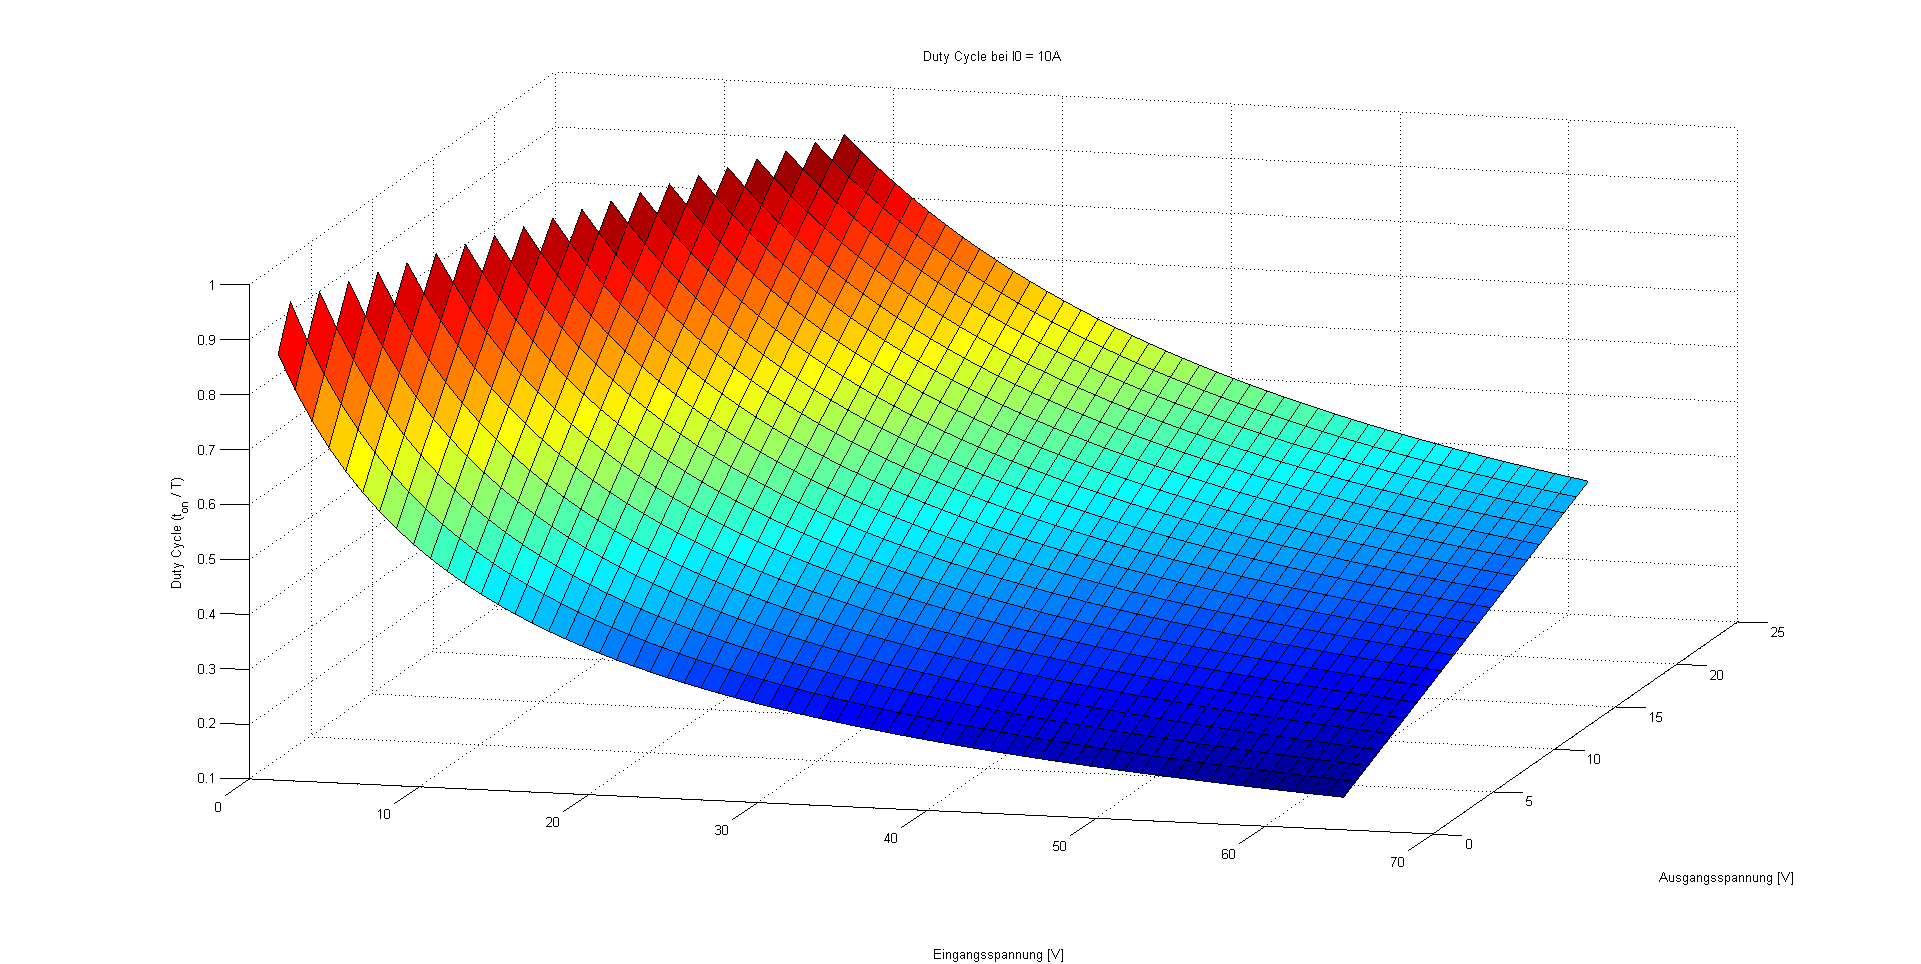
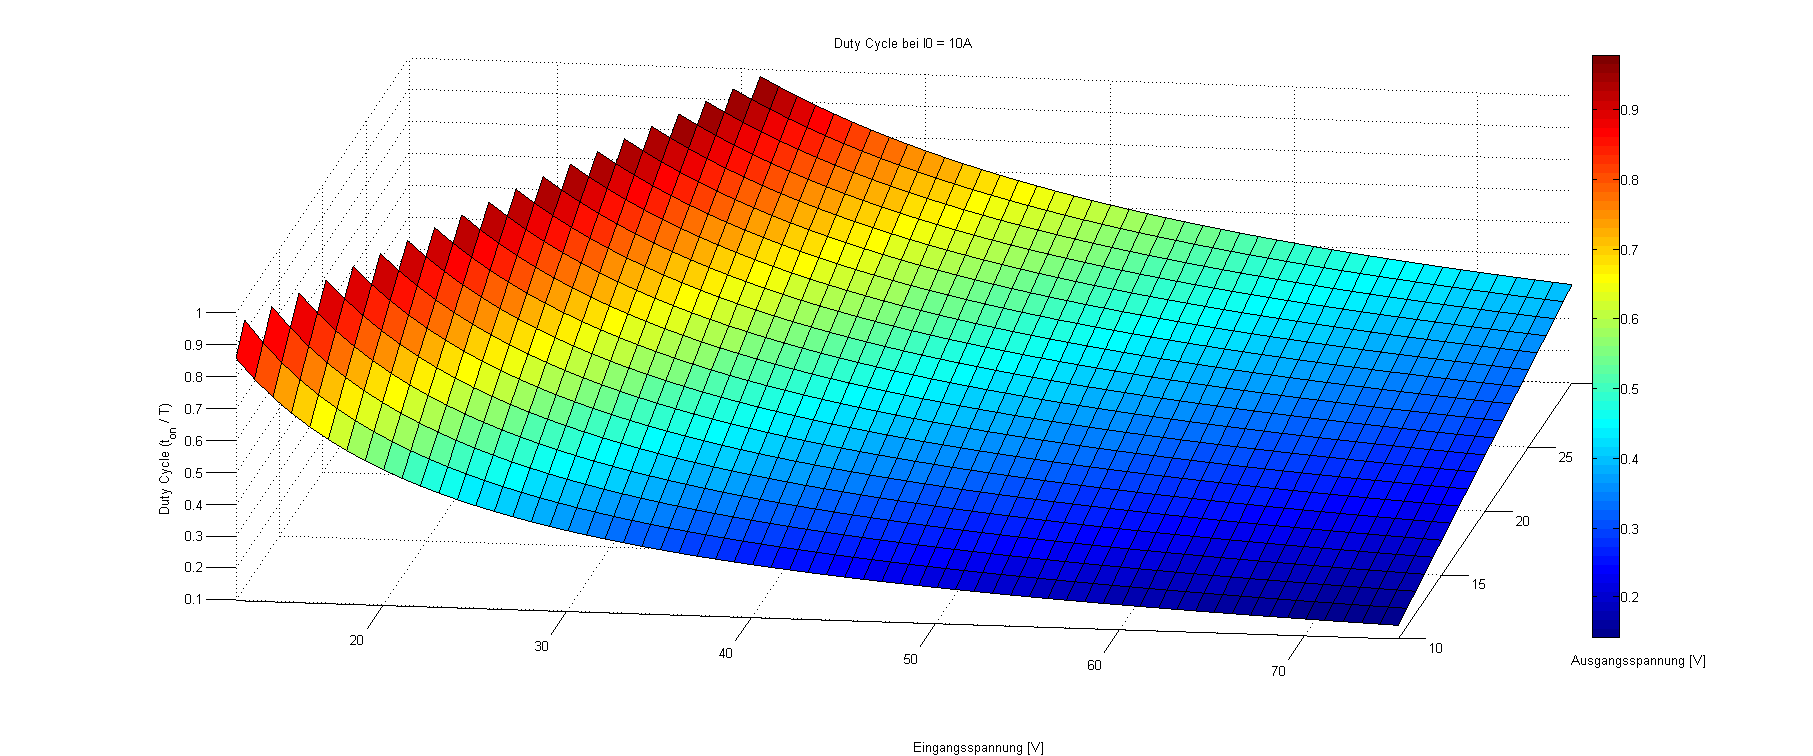
added offset correction for duty cycle and ripple plots

diff --git a/Leistungselektronik_Vezzini/BuckConverter.m b/Leistungselektronik_Vezzini/BuckConverter.m
@@ -126,8 +126,13 @@ display('Efficiency factor calculation completed.');
 display('Drawing and saving of graph plots in progress...'); 
 
 % D-Matrix anzeigen
+D_offset = zeros(max(V0), max(Vin), max(I0));
+D_offset(:,:,:) = NaN;
+D_offset(min(V0):max(V0), min(Vin):max(Vin), min(I0):max(I0)) = D;
 figure
-surf(D(:,:,10));
+surf(D_offset(:,:,10));
+colorbar;
+set(gca, 'xlim', [min(Vin) max(Vin)], 'ylim', [min(V0) max(V0)]);
 title(['Duty Cycle bei I0 = 10A']);
 ylabel('Ausgangsspannung [V]');
 xlabel('Eingangsspannung [V]');
@@ -135,7 +140,12 @@ zlabel('Duty Cycle (t_{on} / T)');
 
 % Rippel anzeigen
 figure
-surf(dI(:,:,10));
+dI_offset = zeros(max(V0), max(Vin), max(I0));
+dI_offset(:,:,:) = NaN;
+dI_offset(min(V0):max(V0), min(Vin):max(Vin), min(I0):max(I0)) = dI;
+surf(dI_offset(:,:,10));
+colorbar;
+set(gca, 'xlim', [min(Vin) max(Vin)], 'ylim', [min(V0) max(V0)]);
 title(['Rippel \Deltai bei I0 = 10A']);
 ylabel('V0 [V]');
 xlabel('Vin [V]');
@@ -164,7 +174,7 @@ for I0_k = I0
    title(['Wirkungsgrad bei ' int2str(I0_k) 'A']);
    set(gca, 'xlim', [min(Vin) max(Vin)], 'ylim', [min(V0) max(V0)]);
    filename = ['pics/grafik_' int2str(I0_k) 'A.png'];
-   print('-dpng', filename);
+   %print('-dpng', filename);
 end
 
 display('Completed.'); 
